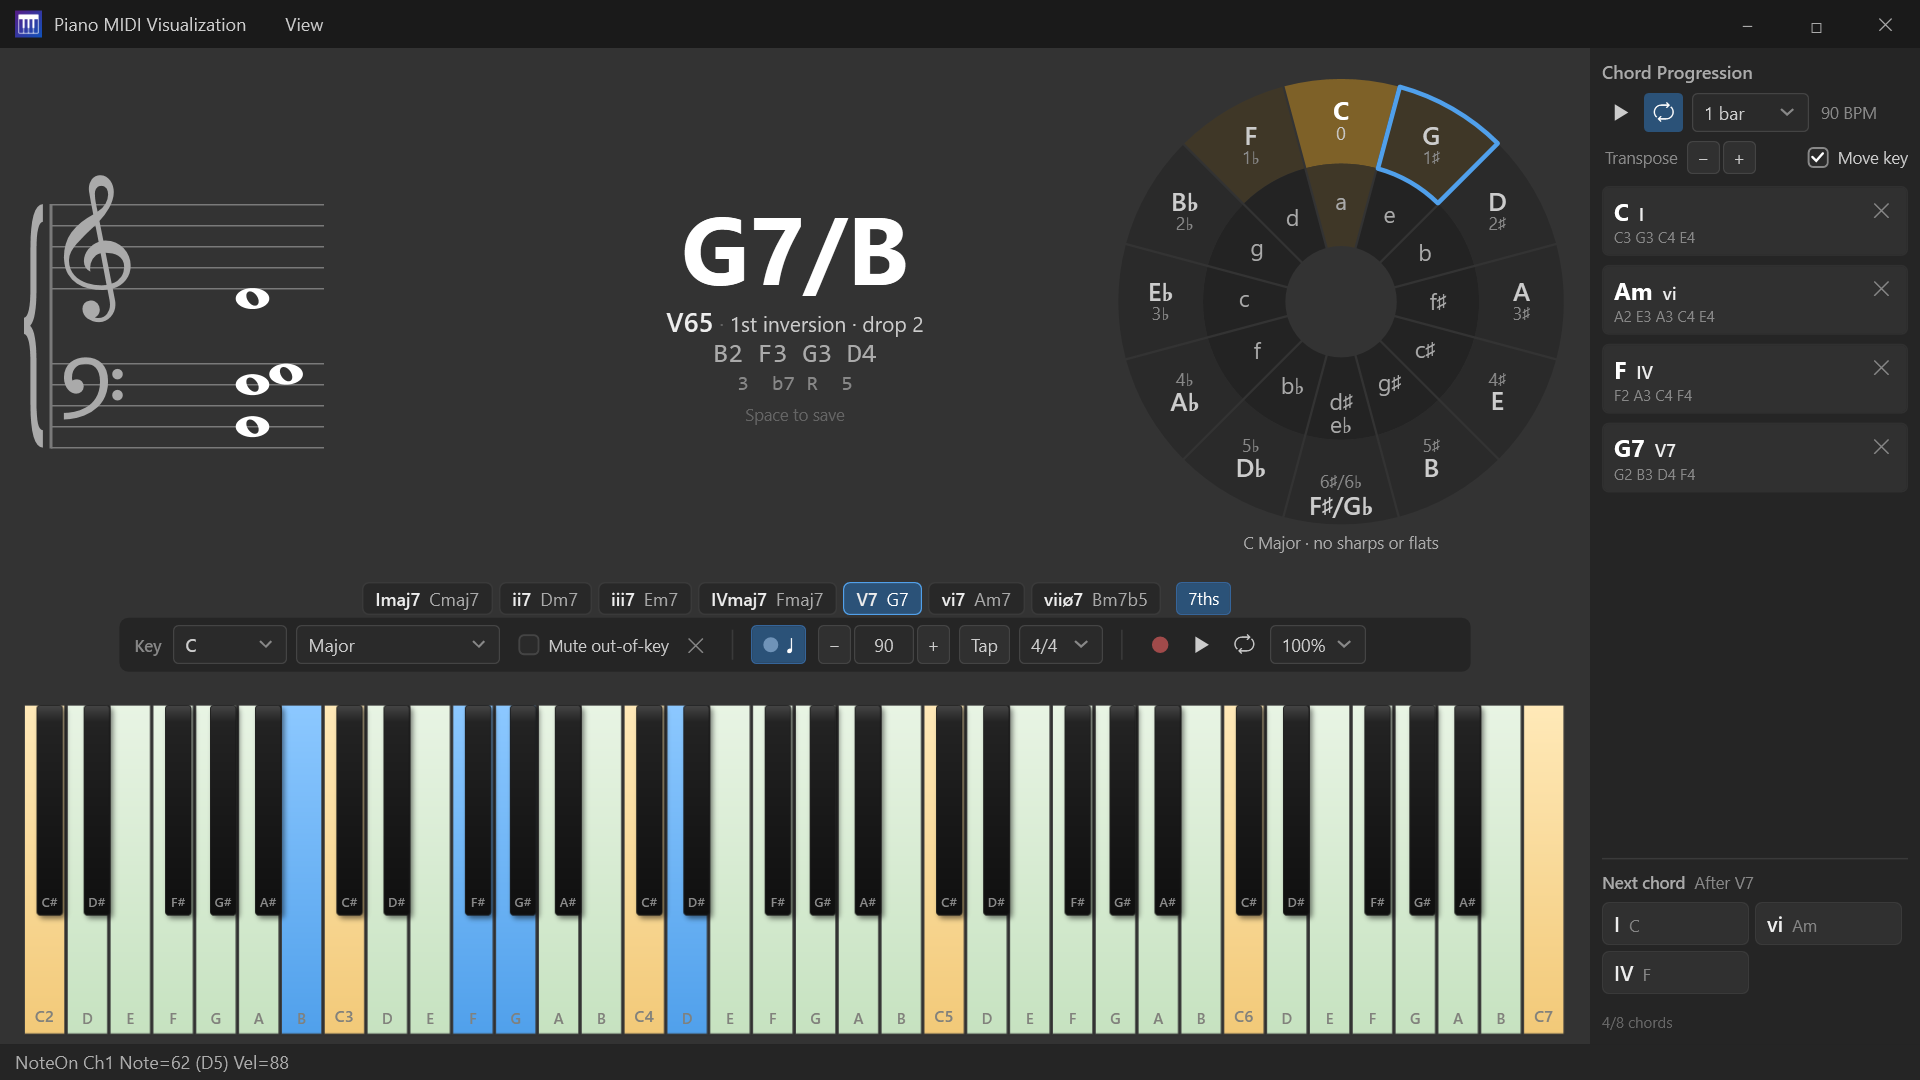
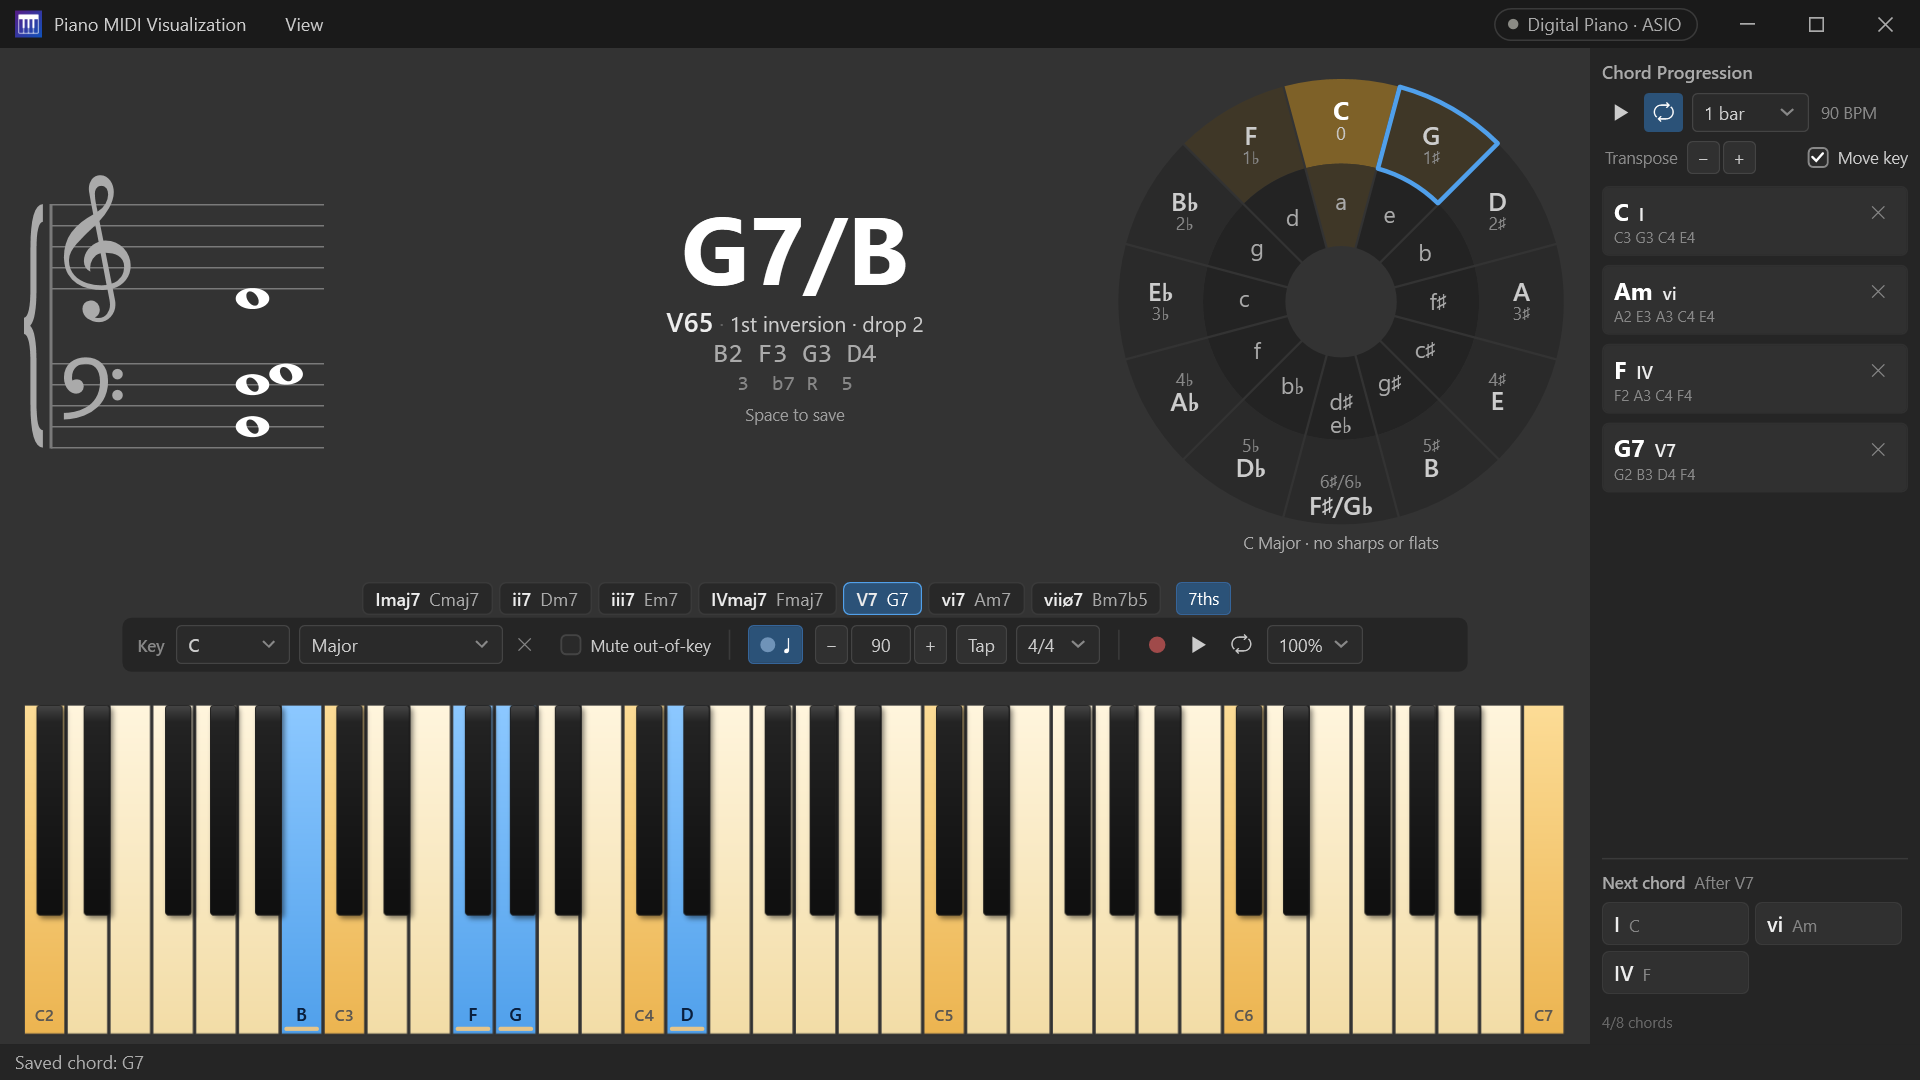
Refresh the README for piano controls, sustain, the chord latch and first run
Features catch up with the work since the last review: Piano controls (learn a
key, pad, button or pedal for eight actions), the sustain pedal, the two-second
chord latch that Space saves from, held-key labels and View > All Note Names,
the amber key colours, notes landing on the keys in song practice, the title
bar's status chip, and Esc cancelling Learn. Getting started leads with the
first-run checklist; the release notes use the new Settings labels.

Screenshots: a new first-run scene, and the settings scene now learns the soft
pedal and a channel-10 pad through the fake keyboard, which can play other
channels and move controllers. All scenes re-rendered.

The render caught a copy bug: a pad mapped as "C2 · ch 10" said "C2 won't sound
while it's mapped", though the keyboard's own C2 still plays. It now names the
channel too.

diff --git a/.claude/skills/update-readme/screenshots/Fakes.cs b/.claude/skills/update-readme/screenshots/Fakes.cs
@@ -21,23 +21,33 @@ internal sealed class FakeMidiInput : IMidiInputService
     public event EventHandler<NoteEventArgs>? NoteOn;
     public event EventHandler<NoteEventArgs>? NoteOff;
     public event EventHandler<RawMidiMessageEventArgs>? MessageReceived;
+    public event EventHandler<ControlChangeEventArgs>? ControlChange;
 
-    public void PressKey(int note, int velocity)
+    /// <param name="channel">0-based, like <see cref="NoteEventArgs.Channel"/>: 9 is a drum pad's channel 10.</param>
+    public void PressKey(int note, int velocity, int channel = 0)
     {
-        Raw("NoteOn", 0x90 | note << 8 | velocity << 16);
+        Raw("NoteOn", channel, 0x90 | channel | note << 8 | velocity << 16);
         // Middle C (60) is "C4", as the keyboard and the real log (MusicNaming.WithOctave) name it.
-        Log($"NoteOn Ch1 Note={note} ({NoteNames[note % 12]}{note / 12 - 1}) Vel={velocity}");
-        NoteOn?.Invoke(this, new NoteEventArgs { NoteNumber = note, Velocity = velocity, Channel = 0 });
+        Log($"NoteOn Ch{channel + 1} Note={note} ({NoteNames[note % 12]}{note / 12 - 1}) Vel={velocity}");
+        NoteOn?.Invoke(this, new NoteEventArgs { NoteNumber = note, Velocity = velocity, Channel = channel });
     }
 
-    public void ReleaseKey(int note)
+    public void ReleaseKey(int note, int channel = 0)
     {
-        Raw("NoteOff", 0x80 | note << 8 | 0x40 << 16);
-        Log($"NoteOff Ch1 Note={note}");
-        NoteOff?.Invoke(this, new NoteEventArgs { NoteNumber = note, Velocity = 0, Channel = 0 });
+        Raw("NoteOff", channel, 0x80 | channel | note << 8 | 0x40 << 16);
+        Log($"NoteOff Ch{channel + 1} Note={note}");
+        NoteOff?.Invoke(this, new NoteEventArgs { NoteNumber = note, Velocity = 0, Channel = channel });
     }
 
-    private void Raw(string command, int message) => Log($"Ch1 {command} raw=0x{message:X8}");
+    /// <summary>A pedal, button or knob: 127 is down or full, 0 up.</summary>
+    public void MoveControl(int controller, int value, int channel = 0)
+    {
+        Raw("ControlChange", channel, 0xB0 | channel | controller << 8 | value << 16);
+        Log($"CC Ch{channel + 1} Controller={controller} Value={value}");
+        ControlChange?.Invoke(this, new ControlChangeEventArgs { Channel = channel, Controller = controller, Value = value });
+    }
+
+    private void Raw(string command, int channel, int message) => Log($"Ch{channel + 1} {command} raw=0x{message:X8}");
 
     private void Log(string description) =>
         MessageReceived?.Invoke(this, new RawMidiMessageEventArgs { Description = description });

diff --git a/.claude/skills/update-readme/screenshots/Scenes.cs b/.claude/skills/update-readme/screenshots/Scenes.cs
@@ -1,4 +1,5 @@
 using System.IO;
+using PianoMidiVisualizationApp.Midi;
 using PianoMidiVisualizationApp.Services;
 using PianoMidiVisualizationApp.Services.SongPractice;
 
@@ -7,7 +8,8 @@ namespace ReadmeScreenshots;
 /// <param name="Name">The PNG's file name, without extension; README links use it.</param>
 /// <param name="Width">Window size in DIPs. Keep it near 1280 wide: GitHub shows README images
 /// at about 880px, so a much wider window makes the text unreadably small.</param>
-internal sealed record Scene(string Name, int Width, int Height, Action<Host> Setup);
+/// <param name="SetUp">False starts like a first launch: no piano sound chosen and audio off.</param>
+internal sealed record Scene(string Name, int Width, int Height, Action<Host> Setup, bool SetUp = true);
 
 /// <summary>
 /// Every README screenshot. Each starts from a fresh window with default settings (the
@@ -28,6 +30,7 @@ internal static class Scenes
         new("recorder", 1280, 840, Recorder),
         new("settings", 1280, 560, Settings),
         new("zen-mode", 1280, 520, ZenMode),
+        new("first-run", 1280, 600, _ => { }, SetUp: false),
     ];
 
     /// <summary>
@@ -128,11 +131,27 @@ internal static class Scenes
         }
     }
 
-    /// <summary>The settings overlay, connected and running, with a SoundFont picked (see <see cref="Host"/>).</summary>
+    /// <summary>
+    /// The settings overlay, connected and running, with a SoundFont picked (see <see cref="Host"/>),
+    /// and two piano controls learned the way a player would: the soft pedal saves the chord, and
+    /// a drum pad on channel 10 arms the recorder.
+    /// </summary>
     private static void Settings(Host host)
     {
         var vm = host.Vm;
         vm.IsSettingsOverlayVisible = true;
+
+        var controls = vm.PianoControls;
+        controls.LearnCommand.Execute(controls.Rows.Single(r => r.Action == PianoAction.SaveChord));
+        host.Midi.MoveControl(67, 127);   // the soft pedal, down
+        host.Midi.MoveControl(67, 0);
+        Host.PumpUntil(() => !controls.IsLearning, TimeSpan.FromSeconds(5), "the soft pedal to be learned");
+
+        controls.LearnCommand.Execute(controls.Rows.Single(r => r.Action == PianoAction.ToggleRecord));
+        host.Midi.PressKey(36, 100, channel: 9);   // a pad sending C2 (MIDI 36) on channel 10
+        host.Midi.ReleaseKey(36, channel: 9);
+        Host.PumpUntil(() => !controls.IsLearning, TimeSpan.FromSeconds(5), "the pad to be learned");
+
         host.Press(C3, G3, E4);
     }
 

diff --git a/.claude/skills/update-readme/screenshots/Host.cs b/.claude/skills/update-readme/screenshots/Host.cs
@@ -22,7 +22,11 @@ internal sealed class Host : IDisposable
     public MainViewModel Vm { get; }
     public MainWindow Window { get; }
 
-    public Host(int width, int height)
+    /// <param name="setUp">
+    /// False leaves the piano sound unchosen and audio off, as on a first launch, so the readout
+    /// shows the setup checklist and the title bar's chip is amber.
+    /// </param>
+    public Host(int width, int height, bool setUp = true)
     {
         Vm = new MainViewModel(Midi, new FakeAudioEngine(), Dispatcher.CurrentDispatcher);
         Vm.RefreshDevices();
@@ -35,8 +39,11 @@ internal sealed class Host : IDisposable
         // Set up as a player would be: a piano sound chosen and audio on, so the title bar's
         // status chip reads "Digital Piano · ASIO" and the empty readout isn't the first-run
         // setup checklist. The file never exists; the fake engine doesn't open it.
-        Vm.Settings.SoundFontPath = @"C:\SoundFonts\Salamander Grand Piano\SalamanderGrandPiano.sfz";
-        Vm.StartAudioCommand.Execute(null);
+        if (setUp)
+        {
+            Vm.Settings.SoundFontPath = @"C:\SoundFonts\Salamander Grand Piano\SalamanderGrandPiano.sfz";
+            Vm.StartAudioCommand.Execute(null);
+        }
 
         Window = new MainWindow
         {

diff --git a/src/PianoMidiVisualizationApp/Midi/MidiTrigger.cs b/src/PianoMidiVisualizationApp/Midi/MidiTrigger.cs
@@ -41,7 +41,8 @@ public readonly record struct MidiTrigger(MidiTriggerKind Kind, int Channel, int
     /// </summary>
     public string? SideEffect => Kind switch
     {
-        MidiTriggerKind.Note => $"{MusicNaming.WithOctave(Number)} won't sound while it's mapped.",
+        // DisplayName, channel and all: a pad's C2 on channel 10 takes nothing from the keyboard's C2.
+        MidiTriggerKind.Note => $"{DisplayName} won't sound while it's mapped.",
         MidiTriggerKind.ControlChange when Number == SustainPedal => "The pedal won't sustain while it's mapped.",
         _ => null
     };

diff --git a/.claude/skills/update-readme/screenshots/Program.cs b/.claude/skills/update-readme/screenshots/Program.cs
@@ -53,7 +53,7 @@ internal static class Program
             var clock = Stopwatch.StartNew();
             try
             {
-                using var host = new Host(scene.Width, scene.Height);
+                using var host = new Host(scene.Width, scene.Height, scene.SetUp);
                 scene.Setup(host);
 
                 string path = Path.Combine(outDir, scene.Name + ".png");

diff --git a/README.md b/README.md
@@ -4,7 +4,8 @@ A Windows desktop app for practising piano with a MIDI keyboard. It plays your k
 any SoundFont (`.sf2`) or SFZ piano with low-latency audio. As you play, it shows the keys you're
 holding, the chord's name and Roman numeral, the notes on a grand staff and where the chord sits
 on the circle of fifths. You can also practise MIDI songs with falling notes, record takes, and
-build and play back chord progressions.
+build and play back chord progressions, and teach the pedals and pads on your keyboard to run
+the app so your hands can stay on the keys.
 
 ![The main window in C major. A G7 chord over B is held; the readout names it G7/B, V65, first inversion, drop 2 voicing. The grand staff, circle of fifths and chord strip follow it, and the sidebar holds a saved C–Am–F–G7 progression with next-chord suggestions.](docs/screenshots/main-window.png)
 
@@ -16,8 +17,11 @@ suggests where the saved progression could go next.*
 
 ### Hear and see what you play
 
-- **Any MIDI keyboard**: USB or through a MIDI interface. Held keys light up on a 61-key
-  keyboard (C2–C7) that scales with the window.
+- **Any MIDI keyboard**: USB or through a MIDI interface. Held keys light up blue on a 61-key
+  keyboard (C2–C7) that scales with the window, each labelled with its note spelled for the key
+  (Bb in F, not A#). The other keys label only the Cs; **View → All Note Names** labels every key.
+- **Sustain pedal**: holds the sound in both SoundFont and SFZ pianos. A key the pedal is holding
+  stays lit in a paler blue and still counts toward the chord name.
 - **SoundFont and SFZ pianos**: `.sf2` files play through the MeltySynth synthesizer. `.sfz`
   instruments such as [Salamander Grand Piano](https://sfzinstruments.github.io/pianos/salamander)
   play through a built-in sample player with velocity layers.
@@ -30,9 +34,10 @@ suggests where the saved progression could go next.*
   it are the inversion, the voicing (close, open, shell or drop 2), each note, and its interval
   above the root.
 - **Keys and scales**: pick a key centre and one of 12 scales: major, natural, harmonic and
-  melodic minor, the five other modes, major and minor pentatonic, and blues. In-key notes
-  are tinted on the keyboard, the tonic stands out, and note names switch between sharps and
-  flats to suit the key.
+  melodic minor, the five other modes, major and minor pentatonic, and blues. The keyboard shows
+  the key in amber: a wash on in-key keys, the tonic in full, and a small mark on in-key black
+  keys and on in-key keys you hold, so it doesn't rest on colour alone. Note names switch between sharps
+  and flats to suit the key.
 - **Mute out-of-key**: out-of-key notes go silent but still light up and still count toward the
   chord name, so you can hear the scale and see your mistakes.
 - **Roman numerals**: the held chord's function in the key, with figured-bass inversions (V65,
@@ -46,8 +51,10 @@ suggests where the saved progression could go next.*
 
 ### Build chord progressions
 
-- Press **Space** to save the chord you're holding to the **Chord Progression** sidebar, up to
-  eight chords, each with its numeral and notes.
+- Press **Space** to save the chord to the **Chord Progression** sidebar, up to eight chords,
+  each with its numeral and notes. You don't have to keep holding it: after you let go, the
+  readout keeps the chord for two seconds, fading, and Space still saves it. That way a
+  two-handed chord can be saved too.
 - **Play it back** at the metronome's tempo, looped if you like, giving each chord one bar or
   one to eight beats (**Ctrl+P**).
 - **Transpose** the whole progression by semitones. Tick **Move key** and the key moves with
@@ -56,12 +63,26 @@ suggests where the saved progression could go next.*
   vi, ii to V, and so on), each voiced to lead smoothly from it. Hover a suggestion to see it on
   the keyboard, and click it to add it.
 
+### Play from the piano
+
+![Settings, with Piano controls below the keyboard and sound settings. The soft pedal is learned for Save chord and a pad sending C2 on channel 10 for Record; the other actions are not set.](docs/screenshots/settings.png)
+
+- **Piano controls**, in **View → Settings…**: teach a key, pad, button or pedal on your
+  keyboard to save the chord, play the progression, record, play the latest take, turn the
+  metronome on or off, tap the tempo, or play and restart a song. Click **Learn** next to the
+  action, then press the control.
+- A key you map stops playing its note. **Clear** gives it back. Mappings are saved with your
+  other settings.
+- Each time a control fires, a short note over the stage says what it did, e.g. "Recording
+  armed · starts at your first note".
+
 ### Practise songs with falling notes
 
-![Song practice with Ode to Joy in "Wait for me" mode. Right-hand notes fall in green and left-hand chords in blue toward the keyboard. The song is paused on the next note, C4, which is outlined on the keyboard, with a score of 24 correct and 1 wrong.](docs/screenshots/song-practice.png)
+![Song practice with Ode to Joy in "Wait for me" mode. Right-hand notes fall in teal and left-hand chords in violet, straight onto the keyboard. The song is paused on the next note, C4, which is outlined on the keyboard, with a score of 24 correct, 1 wrong and 0 missed.](docs/screenshots/song-practice.png)
 
-- **Open any MIDI file** (**Ctrl+O**), and its notes fall toward the keys they belong to. A
-  two-handed piano track is split into right and left hand at middle C, each in its own colour.
+- **Open any MIDI file** (**Ctrl+O**), and its notes fall straight onto the keys they belong
+  to. A two-handed piano track is split into right and left hand at middle C, each in its own
+  colour.
 - **Tracks**: decide who plays each part: **You play**, **Auto-play** (the app plays it as
   accompaniment) or **Mute**.
 - **Wait for me**: the song stops at each of your chords until you play it, with the keys to
@@ -75,7 +96,8 @@ suggests where the saved progression could go next.*
 ![The recorder panel with two takes. Take 2 plays back in an A–B loop, and its notes are drawn on a timeline with the loop region shaded. The keyboard and readout show the A minor chord being played back, and the MIDI log below lists raw note messages.](docs/screenshots/recorder.png)
 
 - Press **Ctrl+R** to arm the recorder. Recording starts at your first note, so there's no
-  silence to trim. The last ten takes are kept.
+  silence to trim. The last ten takes are kept. A note held by the sustain pedal is recorded for
+  as long as it sounds.
 - **Play back** at 50%, 75% or 100% speed (**Ctrl+Shift+R**), looping the whole take or just
   an **A–B** region. Drag across the timeline to set the region, or click it to jump there.
 - **Export** any take as a `.mid` file.
@@ -93,6 +115,9 @@ suggests where the saved progression could go next.*
 - Every panel can be shown or hidden from the **View** menu or its shortcut. **Zen mode**
   (**F11**) hides everything but the chord readout and the keyboard, and F11 again brings your
   layout back.
+- **Status at a glance**: the title bar shows your keyboard and audio output, e.g. "Digital
+  Piano · ASIO". It turns amber when either isn't ready, its tooltip says why, and clicking it
+  opens Settings.
 - **MIDI log**: a scrolling list of every raw MIDI message, handy when a keyboard misbehaves.
 - **AI Music Assistant** (optional): a chat panel for music theory and practice questions. It
   knows the chord you're holding, the selected key and your saved progression. It uses Google
@@ -107,7 +132,7 @@ suggests where the saved progression could go next.*
 | Shortcut | Action |
 |---|---|
 | **Space** | Save the held chord to the progression |
-| **Ctrl+,** | Settings (**Esc** closes them) |
+| **Ctrl+,** | Settings (**Esc** closes them, or cancels **Learn**) |
 | **F11** | Zen mode |
 | **Ctrl+M** | Metronome on/off |
 | **Ctrl+R** | Record / stop recording |
@@ -138,15 +163,21 @@ Get the latest `win-x64.zip` from [Releases](https://github.com/FrankDrebin893/P
 
 ## Getting started
 
-![Settings across the top of the window: the keyboard with Connect/Disconnect, activity light and refresh; the ASIO or WASAPI output and its device; the piano sound file with Choose…, Start audio and Stop; the volume and click sliders; and the Gemini key field. Below them, Piano controls for mapping pads and buttons.](docs/screenshots/settings.png)
+![The first launch. The readout shows a setup checklist: Keyboard connected (Digital Piano, ticked), Choose a piano sound (the next step, highlighted) and Start audio. The title bar reads "Digital Piano · No sound" in amber.](docs/screenshots/first-run.png)
 
-1. Open **View → Settings…** (**Ctrl+,**).
-2. Select your MIDI keyboard from the **Keyboard** dropdown and click **Connect**.
-3. Choose **ASIO** or **WASAPI** under **Output**, and select your audio device.
-4. Click **Choose…** next to **Piano sound** to pick a SoundFont or SFZ file.
-5. Click **Start audio**.
-6. Play. You'll hear sound and see the keys light up. Pick a **Key** in the toolbar to turn on
-   the Roman numerals, chord strip and key tinting.
+The first time you start the app, the empty readout is a setup checklist: **Connect your
+keyboard**, **Choose a piano sound** and **Start audio**. Click a step to do it. Choosing a
+sound starts audio as well. If a step fails, it says why in amber.
+
+Everything is also in **View → Settings…** (**Ctrl+,**):
+
+1. Select your MIDI keyboard from the **Keyboard** dropdown and click **Connect**.
+2. Choose **ASIO** or **WASAPI** under **Output**, and select your audio device.
+3. Click **Choose…** next to **Piano sound** to pick a SoundFont or SFZ file.
+4. Click **Start audio**.
+
+Then play. You'll hear sound and see the keys light up. Pick a **Key** in the toolbar to turn on
+the Roman numerals, chord strip and key tinting.
 
 The dot next to **Connect** turns green once the keyboard is connected and flashes when MIDI
 data arrives. **Volume** sets the master volume and **Click** the metronome. To use the AI

diff --git a/.github/release-notes.md b/.github/release-notes.md
@@ -2,6 +2,6 @@
 
 Download the `win-x64.zip` below, unzip it, and run `PianoMidiVisualizationApp.exe`. There is no installer, and .NET doesn't need to be installed. Requires 64-bit Windows 10 or 11.
 
-- **No piano sound is included.** Download any `.sf2` or `.sfz` piano, then open **View → Settings…** and pick it with the **...** button next to **SF2**. Free options: [GeneralUser GS](https://schristiancollins.com/generaluser.php) or [Salamander Grand Piano](https://sfzinstruments.github.io/pianos/salamander).
+- **No piano sound is included.** Download any `.sf2` or `.sfz` piano. On first launch the setup checklist asks for it (**Choose a piano sound**), or pick it any time in **View → Settings…** with **Choose…** next to **Piano sound**. Free options: [GeneralUser GS](https://schristiancollins.com/generaluser.php) or [Salamander Grand Piano](https://sfzinstruments.github.io/pianos/salamander).
 - **Windows may say "Windows protected your PC"**, because the app isn't code-signed yet. Click **More info**, then **Run anyway**.
 

diff --git a/.claude/skills/update-readme/SKILL.md b/.claude/skills/update-readme/SKILL.md
@@ -70,7 +70,10 @@ off-screen, and sets up only what it shows:
 - A new headline feature earns a scene. A small one can usually be staged inside the
   `main-window` hero shot instead.
 
-Current scenes: `main-window` (hero), `song-practice`, `recorder`, `settings`, `zen-mode`.
+Current scenes: `main-window` (hero), `song-practice`, `recorder`, `settings` (with two
+learned piano controls), `zen-mode`, `first-run` (the setup checklist; `SetUp: false` skips
+the sound and audio the other scenes start with). `FakeMidiInput` can also play pads on other
+channels and move controllers (`MoveControl`), e.g. to learn a pedal.
 
 ## 3. Render
 
